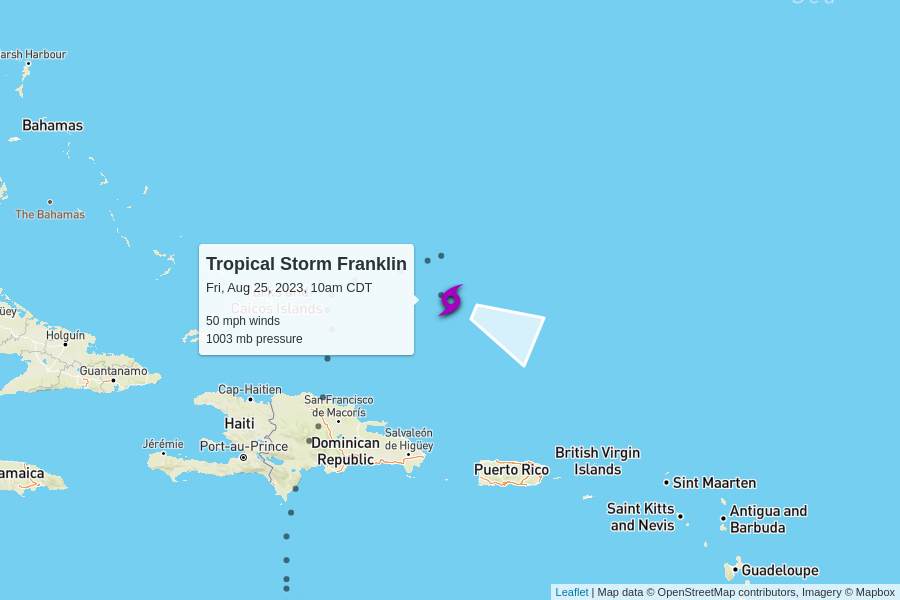
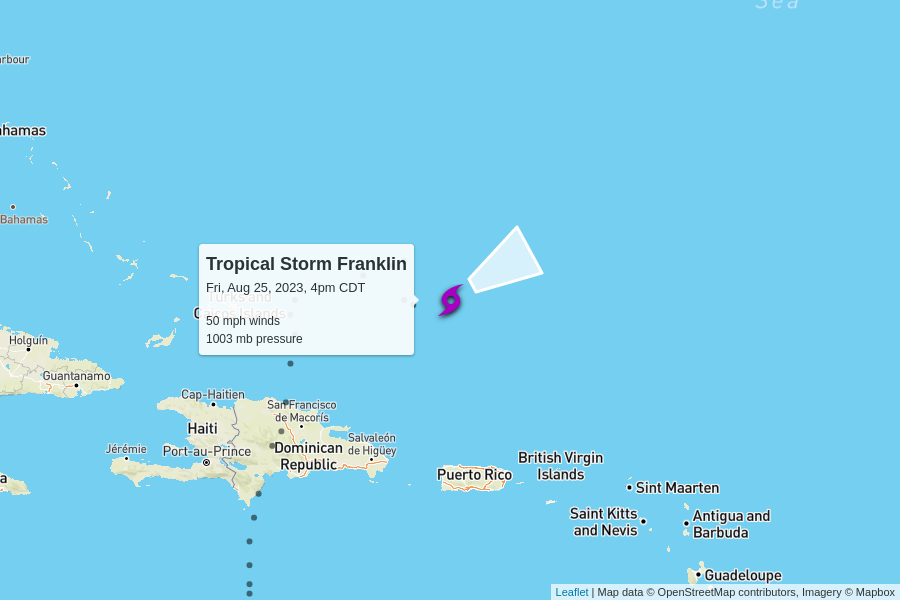
automatic update

diff --git a/docs/index.html b/docs/index.html
@@ -100,7 +100,7 @@
         <td colspan="6" class="storm category-0" >
           <h2>
             Tropical Storm Franklin
-            <p class="updated">last updated <span data-time>2023-08-25T15:00:00.000Z</span></p>
+            <p class="updated">last updated <span data-time>2023-08-25T21:00:00.000Z</span></p>
           </h2>
         </td>
       </tr>
@@ -118,9 +118,9 @@
         <td>50 mph</td>
         <td>1003 mb</td>
         <td>
-          5 mph to the east-southeast
+          6 mph to the east-northeast
           <br/>
-          <span style="display: inline-block; font-size: 1.5em; transform: rotate(115deg);">↑</span>
+          <span style="display: inline-block; font-size: 1.5em; transform: rotate(60deg);">↑</span>
         </td>
         <td><a href="https://raw.githubusercontent.com/mgwalker/atlantic-hurricanes/main/data/csv/AL082023.csv">AL082023.csv</a></td>
         <td><a href="https://www.nhc.noaa.gov/archive/2023/FRANKLIN.shtml?">NHC advisories</a></td>
